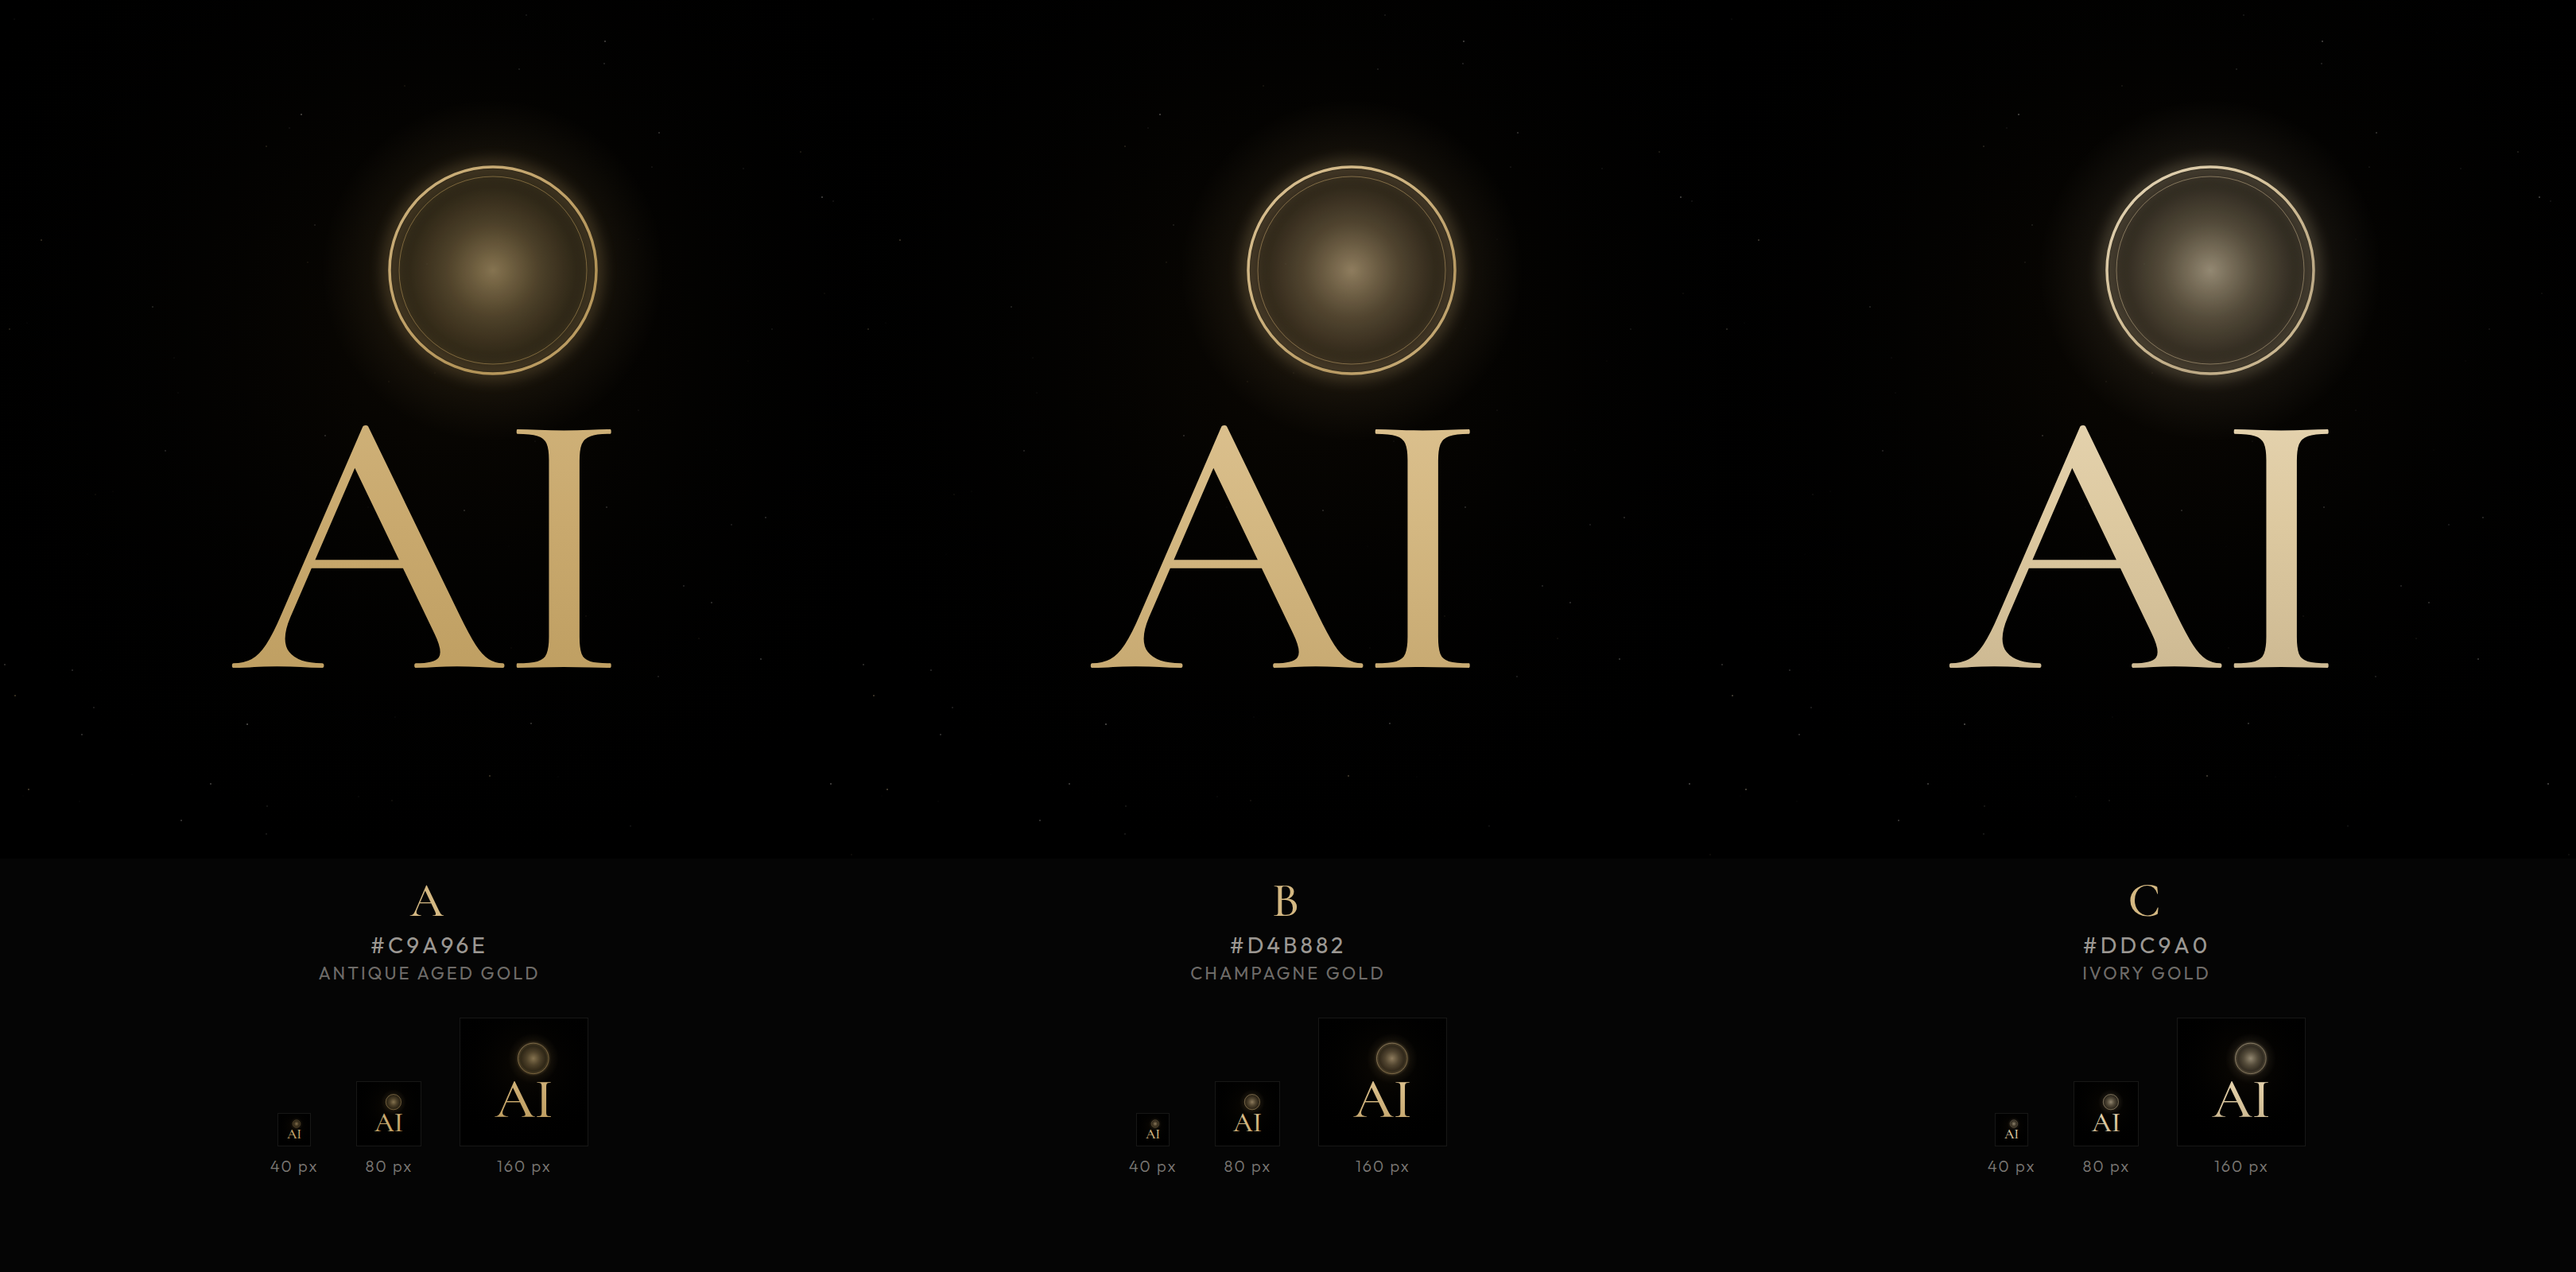
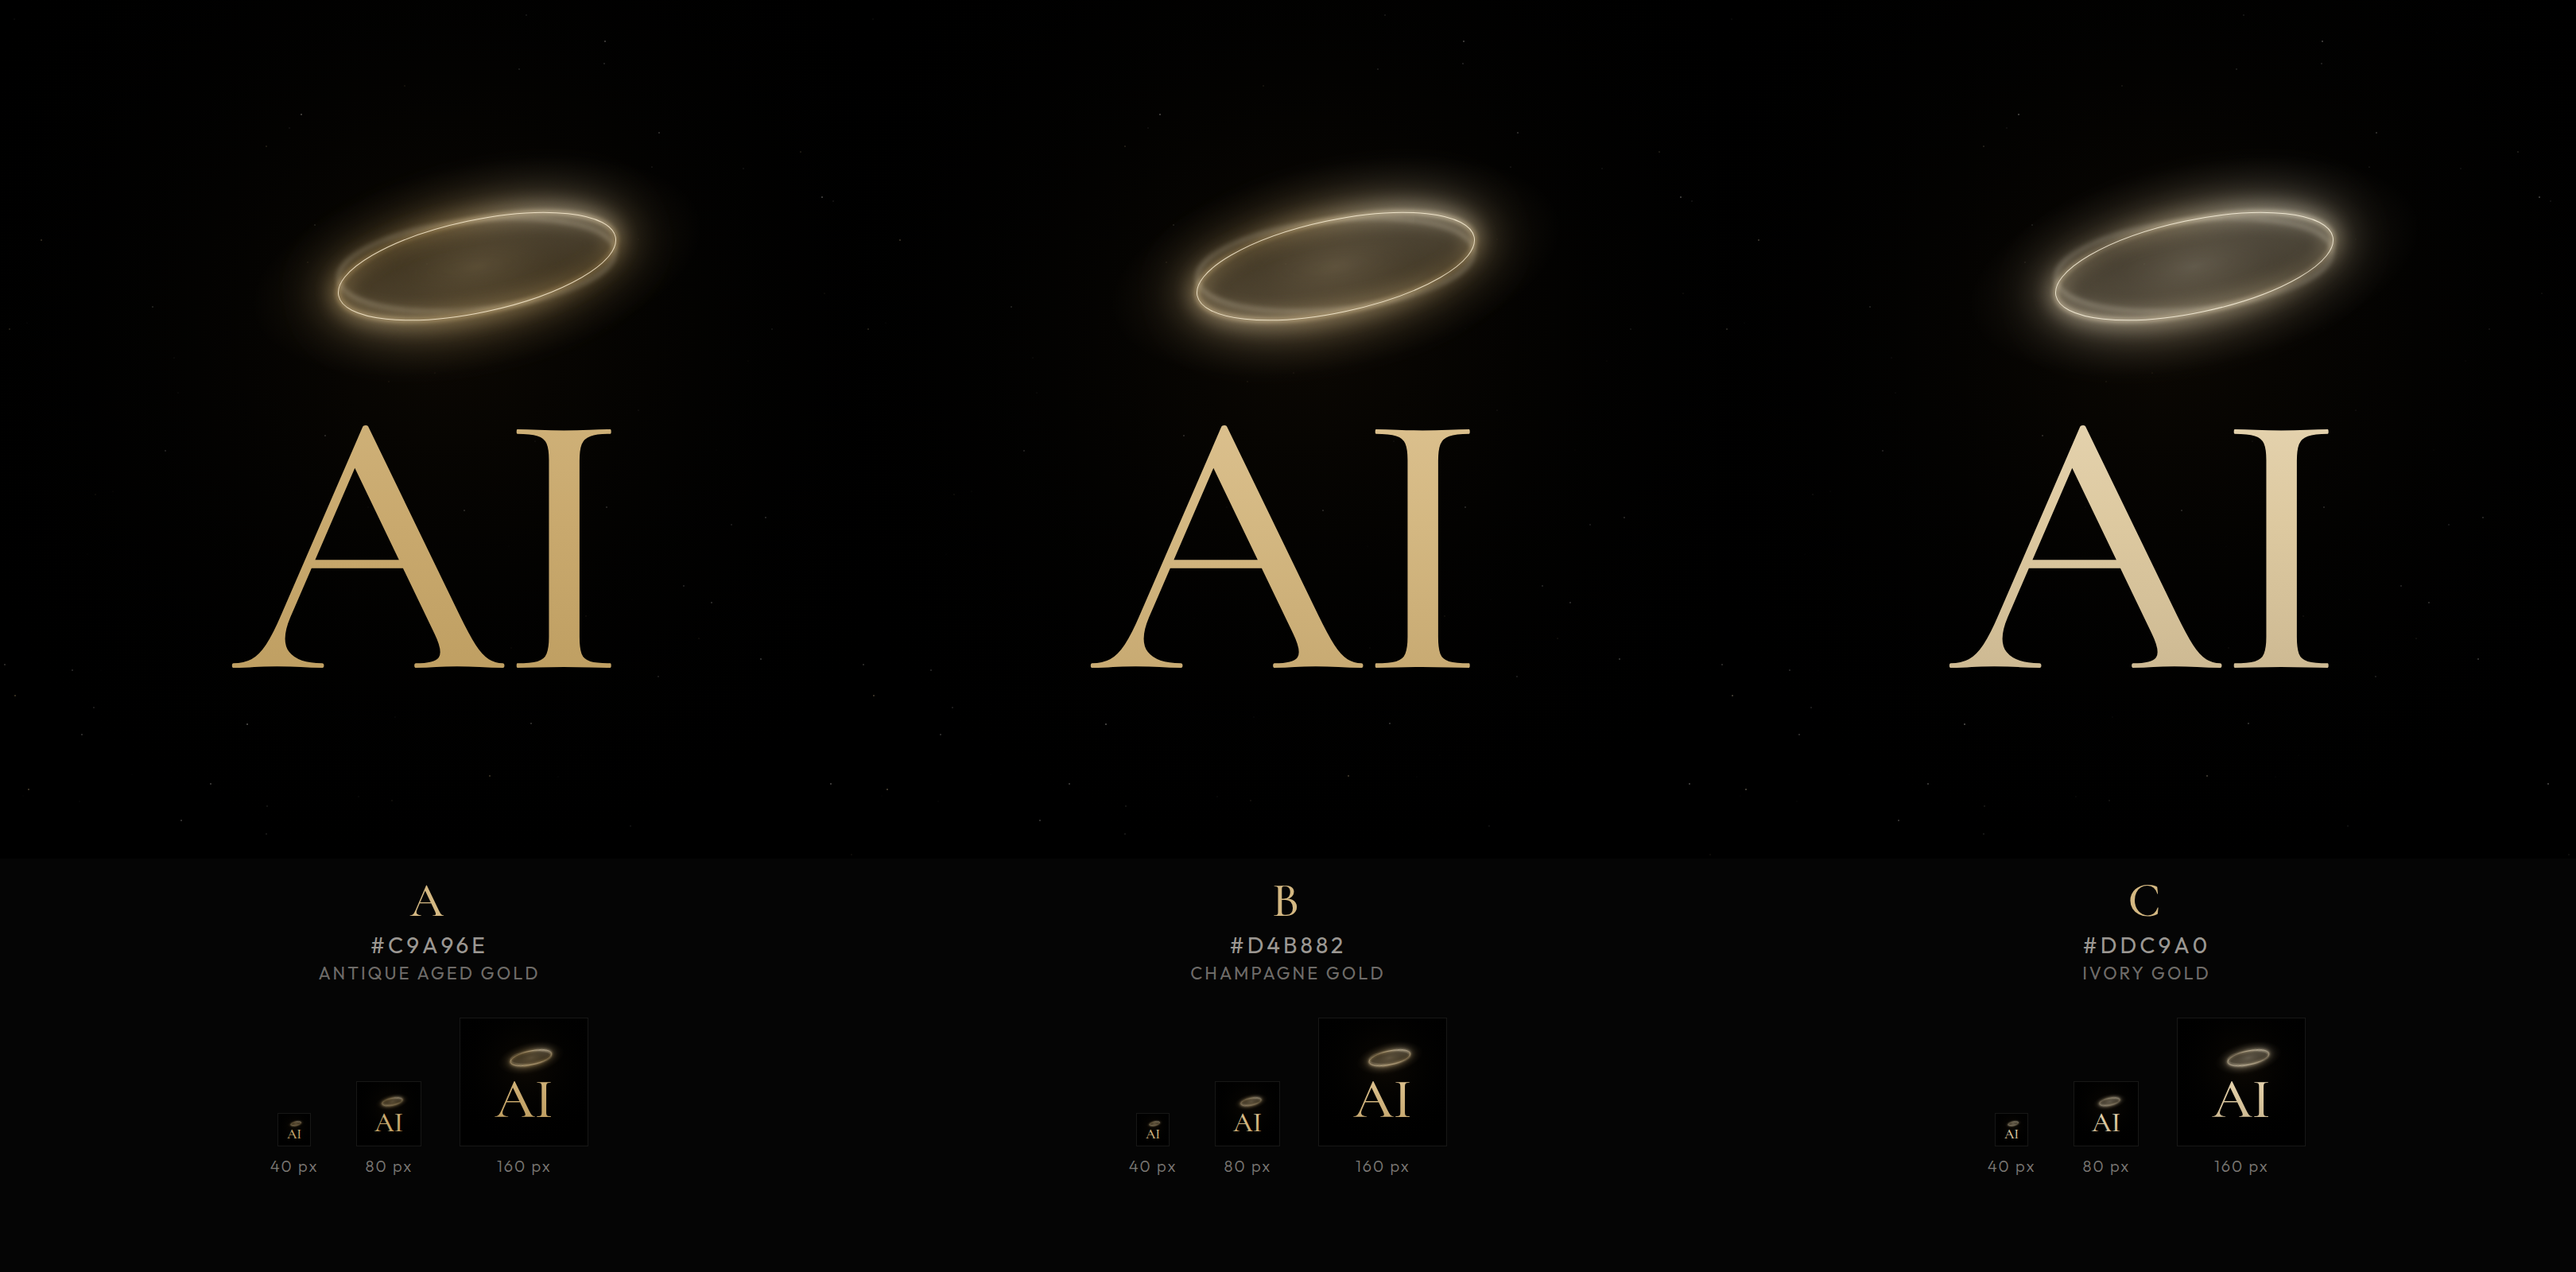
brand(assets): redesign halo as tilted 3D neon ring
Replace flat disc-and-ring halo (read as a "moon") with a tilted
ellipse in perspective, warm-gold neon-trace gradient, and layered
gaussian bloom — matches the reference image Robby sent. Inner fill
removed so the halo reads as a ring in space, not a filled circle.

Same three gold palettes (A/B/C) re-rendered and published to
/brand-assets/preview.html.

https://claude.ai/code/session_017x48DJnKDRR6Pi66PS21iM

diff --git a/public/brand-assets/preview.html b/public/brand-assets/preview.html
@@ -133,6 +133,8 @@
       Once you tell me which (A, B, or C), I'll build the 5 final assets
       — profile pic (SVG+PNG), social banner, launch verticals, and the video end card —
       using the approved palette and push them to this same preview page.
+      <br/><br/>
+      <strong style="color:#e2c899">Rev 2:</strong> Halo redesigned as a tilted 3D neon ring with warm bloom (no more flat moon disc) per the reference image.
     </div>
   </section>
 
